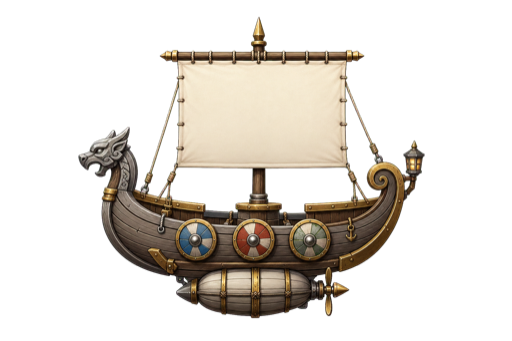
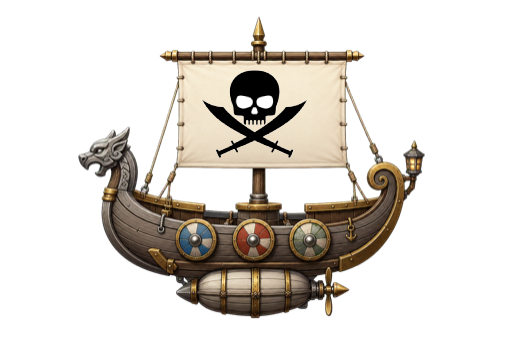
Update the ship images to have skull

Changed region(s): [[0.375, 0.2053, 0.5938, 0.4692]]

diff --git a/src/styles.css b/src/styles.css
@@ -149,6 +149,96 @@ textarea {
   display: none;
 }
 
+#main-menu {
+  position: absolute;
+  z-index: 9;
+  inset: 0;
+  display: grid;
+  place-items: center;
+  background: rgba(7, 11, 22, 0.88);
+}
+
+#main-menu[hidden] {
+  display: none;
+}
+
+#main-menu-panel {
+  width: min(520px, calc(100% - var(--hud-gap) * 4));
+  display: grid;
+  gap: calc(var(--hud-gap) * 1.5);
+  padding: calc(var(--hud-gap) * 2.5);
+  border: var(--panel-border-width) solid color-mix(in srgb, var(--accent-color), transparent 30%);
+  border-radius: var(--panel-radius);
+  background: color-mix(in srgb, var(--page-background), black 18%);
+  color: var(--text-color);
+  text-align: center;
+}
+
+#main-menu-panel h1 {
+  margin: 0;
+  font-size: clamp(1.6rem, 5vh, 2.8rem);
+  color: var(--accent-color);
+  letter-spacing: 0.02em;
+}
+
+#main-menu-subtitle {
+  margin: 0;
+  color: var(--muted-text-color);
+  font-size: 0.9rem;
+  letter-spacing: 0.08em;
+  text-transform: uppercase;
+}
+
+#how-to-play {
+  text-align: left;
+  display: grid;
+  gap: var(--hud-gap);
+  padding: var(--hud-gap);
+  border: var(--panel-border-width) solid color-mix(in srgb, var(--text-color), transparent 70%);
+  border-radius: var(--button-radius);
+}
+
+#how-to-play h2 {
+  margin: 0;
+  font-size: 0.85rem;
+  letter-spacing: 0.1em;
+  text-transform: uppercase;
+  color: var(--muted-text-color);
+}
+
+#how-to-play ul {
+  margin: 0;
+  padding: 0;
+  list-style: none;
+  display: grid;
+  gap: calc(var(--hud-gap) * 0.9);
+}
+
+#how-to-play li {
+  display: flex;
+  gap: calc(var(--hud-gap) * 1.2);
+  align-items: flex-start;
+  font-size: 0.92rem;
+  line-height: 1.45;
+}
+
+.tip-icon {
+  flex-shrink: 0;
+  font-size: 1.1em;
+  width: 1.4em;
+  text-align: center;
+}
+
+#how-to-play strong {
+  color: var(--accent-color);
+}
+
+#start-game {
+  width: 100%;
+  font-size: 1.05rem;
+  letter-spacing: 0.05em;
+}
+
 #game-over {
   position: absolute;
   z-index: 8;
@@ -193,6 +283,7 @@ textarea {
   color: var(--muted-text-color);
 }
 
+#start-game,
 #restart-game,
 #sandbox-link,
 #audio-toggle {

diff --git a/index.html b/index.html
@@ -19,6 +19,37 @@
         <div id="feedback" aria-live="polite"></div>
         <div id="wave-banner" aria-live="polite"></div>
 
+        <div id="main-menu">
+          <section id="main-menu-panel" role="dialog" aria-modal="true" aria-labelledby="main-menu-title">
+            <h1 id="main-menu-title">Dragon Draw Defense</h1>
+            <p id="main-menu-subtitle">Viking Raid Sentry</p>
+
+            <section id="how-to-play" aria-label="How to play">
+              <h2>How to Play</h2>
+              <ul>
+                <li>
+                  <span class="tip-icon">⚓</span>
+                  <span>Enemy ships arrive in waves — each wave is faster and brings more ships.</span>
+                </li>
+                <li>
+                  <span class="tip-icon">🏝</span>
+                  <span>Don't let <strong>3 ships</strong> reach your island or the defense falls.</span>
+                </li>
+                <li>
+                  <span class="tip-icon">🐉</span>
+                  <span>Draw the shape shown on a ship's flag to command a dragon to destroy it.</span>
+                </li>
+                <li>
+                  <span class="tip-icon">✍</span>
+                  <span>The <strong>order</strong> of your strokes matters — watch the animated dots on the flag to learn the correct drawing sequence.</span>
+                </li>
+              </ul>
+            </section>
+
+            <button id="start-game" type="button">Start Game</button>
+          </section>
+        </div>
+
         <div id="game-over" hidden>
           <section id="game-over-panel" role="dialog" aria-modal="true" aria-labelledby="game-over-title">
             <h1 id="game-over-title"></h1>

diff --git a/src/main.js b/src/main.js
@@ -11,6 +11,8 @@ import "./styles.css";
 const canvas = document.querySelector("#game-canvas");
 const restartButton = document.querySelector("#restart-game");
 const audioButton = document.querySelector("#audio-toggle");
+const mainMenu = document.querySelector("#main-menu");
+const startButton = document.querySelector("#start-game");
 
 const renderer = new CanvasRenderer(canvas, {
   health: document.querySelector("#health"),
@@ -60,9 +62,13 @@ document.documentElement.style.setProperty("--sandbox-offset", `${GAME_CONFIG.UI
 document.documentElement.style.setProperty("--canvas-cursor", `url("${GAME_CONFIG.RENDER.CURSOR_IMAGE_PATH}") 16 16, crosshair`);
 document.documentElement.style.setProperty("--button-art", `url("${GAME_CONFIG.RENDER.BUTTON_IMAGE_PATH}")`);
 
-document.addEventListener("pointerdown", () => audio.unlock(), { passive: true });
-document.addEventListener("keydown", () => audio.unlock(), { passive: true });
 audioButton?.addEventListener("click", () => audio.toggle());
+
+startButton.addEventListener("click", () => {
+  audio.unlock();
+  mainMenu.hidden = true;
+  requestAnimationFrame(tick);
+});
 
 const input = new GestureInput(canvas, {
   onCommit(points) {
@@ -109,7 +115,6 @@ restartButton.addEventListener("click", () => {
     highScores
   };
 });
-requestAnimationFrame(tick);
 
 function tick(nowMs) {
   gameState = advanceGameState(gameState, nowMs);